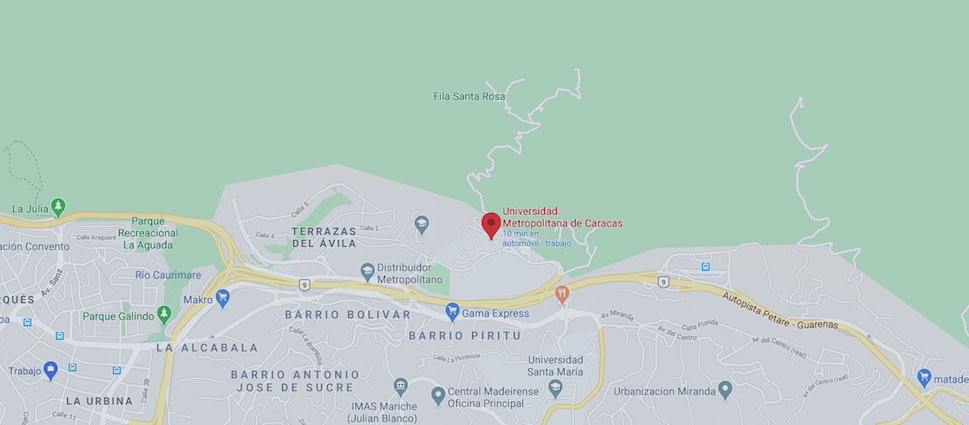
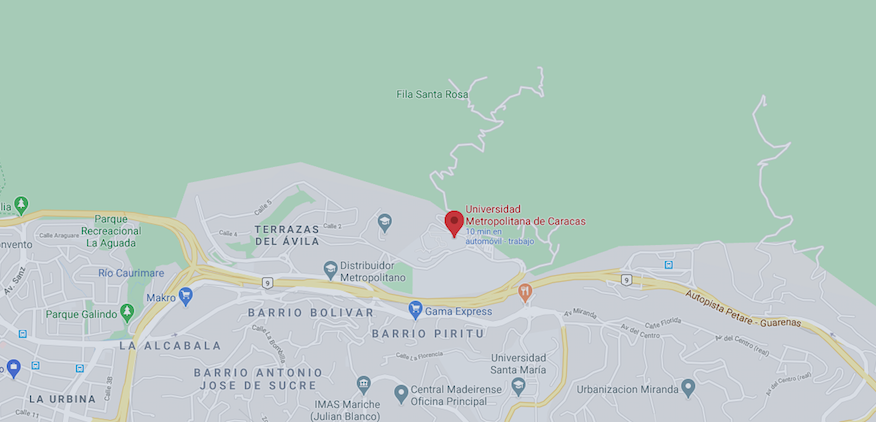
home finalizado

diff --git a/src/app/components/patient/patient.component.html b/src/app/components/patient/patient.component.html
@@ -1,5 +1,7 @@
 <div class="container-fluid">
+
   <div class="row">
+    <!-- Banner -->
     <img
       src="../../../assets/background/smile.jpeg"
       alt="banner"
@@ -9,7 +11,8 @@
     />
   </div>
 
-  <div class="row intro">
+  <div class="row">
+    <!-- Name -->
     <div class="w-100 jumbotron">
       <div class="container">
         <h1 class="font-weight-light">Smiling Bird</h1>
@@ -20,24 +23,35 @@
     </div>
   </div>
 
-  <div class="row d-flex align-items-end justify-content-center mb-sm-5">
-    <h5 class="w-100 text-center m-sm-5">¡Bienvenidos a nuestro espacio en la red!</h5>
+  <div class="row d-flex align-items-end justify-content-center mb-5">
+    <!-- Intro -->
+    <h5 class="w-100 text-center m-5">
+      ¡Bienvenidos a nuestro espacio en la red!
+    </h5>
     <p class="w-75">
       En Smiling Bird ponemos a su disposición la experiencia del mejor equipo
       de odontólogos y las instalaciones más modernas y cómodas, además de la
       última tecnología a nivel mundial.
     </p>
-    <p class="w-75 mb-sm-5">
+    <p class="w-75 mb-5">
       Somos un grupo humano verdaderamente comprometido con lo que hace, capaz
       de brindar un servicio de salud integral, personalizado y de alto valor
       científico, enfocado en la ética, responsabilidad y sentido social de
       nuestra labor.
     </p>
-    <h6 class="w-100 font-italic font-weight-light text-muted text-center">CARACAS-VENEZUELA</h6>
+    <p class="w-75 font-italic mb-5">
+      Así que ven a Smiling Bird y vuela alto con nosotros.
+    </p>
+    <h6 class="w-100 font-italic font-weight-light text-muted text-center">
+      CARACAS-VENEZUELA
+    </h6>
   </div>
 
   <div class="row">
+    <!-- Testimonials -->
     <ngb-carousel class="w-100">
+
+      <!-- First testimonial -->
       <ng-template ngbSlide>
         <div class="picsum-img-wrapper">
           <div class="w-100 testimonial"></div>
@@ -52,9 +66,13 @@
           </p>
           <hr />
           <h6 class="font-weight-light">Sara López</h6>
-          <h6 class="font-weigt-lighter my-3 text-white-50 font-italic">Abogada</h6>
+          <h6 class="font-weigt-lighter my-3 text-white-50 font-italic">
+            Abogada
+          </h6>
         </div>
       </ng-template>
+
+      <!-- Second testimonial -->
       <ng-template ngbSlide>
         <div class="picsum-img-wrapper">
           <div class="w-100 testimonial"></div>
@@ -68,9 +86,13 @@
           </p>
           <hr />
           <h6 class="font-weight-light">Jessica Wong</h6>
-          <h6 class="font-weigt-lighter my-3 text-white-50 font-italic">Estudiante</h6>
+          <h6 class="font-weigt-lighter my-3 text-white-50 font-italic">
+            Estudiante
+          </h6>
         </div>
       </ng-template>
+
+      <!-- Third testimonial -->
       <ng-template ngbSlide>
         <div class="picsum-img-wrapper">
           <div class="w-100 testimonial"></div>
@@ -90,24 +112,176 @@
           </h6>
         </div>
       </ng-template>
+
     </ngb-carousel>
   </div>
 
-  <div class="address row">
-    <div class="container place shadow-lg">
-      <p>
-        <strong>Distribuidor Universidad</strong> <br />
-        Av. Boyacá con autopista Petare-Guarenas. <br />
-        Urbanización Terrazas del Ávila, Caracas-Miranda. <br />
-        Zona postal 1073
-      </p>
-    </div>
+  <div class="row">
+    <!-- Services -->
+
+    <h2 class="font-weight-light w-100 text-center m-5">
+      Nuestros servicios
+    </h2>
+    <p class="font-weight-bold w-100 text-center">
+      ¡Todas las Especialidades en el mismo lugar!
+    <p>
+
+    <!-- Treatments container -->
+    <div class="container-fluid">
+
+      <!-- First row -->
+      <div class="row">
+
+        <!-- Treatment -->
+        <div class="col-sm treatment m-5 text-center">
+          <img
+            class="thumbnail"
+            alt="thumbnail"
+            src="../../../assets/treatments/blanqueamiento.jpg"
+          />
+          <div class="cover">
+            <h4 class="font-weight-light m-5">ESTÉTICA DENTAL</h4>
+            <hr />
+            <p>
+              Análisis y estudio de las características dentogingivales para
+              corregir defectos cosméticos y embellecer el aspecto general de la
+              dentadura
+            </p>
+            <hr />
+          </div>
+        </div>
+
+        <!-- Treatment -->
+        <div class="col-sm treatment m-5 text-center">
+          <img
+            class="thumbnail"
+            alt="thumbnail"
+            src="../../../assets/treatments/cirugia_bucal.jpg"
+          />
+          <div class="cover">
+            <h4 class="font-weight-light m-5">CIRUGÍA BUCAL</h4>
+            <hr />
+            <p>
+              Prevención, diagnóstico y tratamiento de toda la patología
+              quirúrgica propia o asociada a dientes, mucosas, labios, encías y
+              huesos maxilares.
+            </p>
+            <hr />
+          </div>
+        </div>
+
+      </div> <!-- End first row -->
+
+      <!-- Second row -->
+      <div class="row">
+
+        <!-- Treatment -->
+        <div class="col-sm treatment m-5 text-center">
+          <img
+            class="thumbnail"
+            alt="thumbnail"
+            src="../../../assets/treatments/implante.jpg"
+          />
+          <div class="cover">
+            <h4 class="font-weight-light m-5">IMPLANTES</h4>
+            <hr />
+            <p>
+              Reposición de los dientes perdidos con dispositivos biocompatibles
+              de titanio que viabilizan la rehabilitación oral fija de los
+              pacientes parcial o totalmente edéntulos.
+            </p>
+            <hr />
+          </div>
+        </div>
+
+        <!-- Treatment -->
+        <div class="col-sm treatment m-5 text-center">
+          <img
+            class="thumbnail"
+            alt="thumbnail"
+            src="../../../assets/treatments/tratamiento_conducto.jpg"
+          />
+          <div class="cover">
+            <h4 class="font-weight-light m-5">ENDODONCIA</h4>
+            <hr />
+            <p>
+              Limpieza, desinfección y conformación de los conductos radiculares
+              como paso previo a los múltiples procedimmientos de próteses y
+              restauración dental.
+            </p>
+            <hr />
+          </div>
+        </div>
+
+      </div> <!-- End second row -->
+
+      <!-- Third row -->
+      <div class="row">
+
+        <!-- Treatment -->
+        <div class="col-sm treatment m-5 text-center">
+          <img
+            class="thumbnail"
+            alt="thumbnail"
+            src="../../../assets/treatments/ortodoncia.jpg"
+          />
+          <div class="cover">
+            <h4 class="font-weight-light m-5">ORTODONCIA</h4>
+            <hr />
+            <p>
+              Brackets y aparatoría funcional para la correción biomecánica de
+              maloclusiones, malposiciones dentales y deformidades
+              dentofaciales.
+            </p>
+            <hr />
+          </div>
+        </div>
+
+        <!-- Treatment -->
+        <div class="col-sm treatment m-5 text-center">
+          <img
+            class="thumbnail"
+            alt="thumbnail"
+            src="../../../assets/treatments/protesis_dental.jpg"
+          />
+          <div class="cover">
+            <h4 class="font-weight-light m-5">PRÓTESIS ORAL</h4>
+            <hr />
+            <p>
+              Diseño y confección de coronas cerámicas y estructuras protésicas
+              que restituyen la integridad de las arcadas dentales, estética y
+              función masticatoria.
+            </p>
+            <hr />
+          </div>
+        </div>
+
+      </div> <!-- End third row -->
+
+    </div> <!-- End container -->
+
+  </div> <!-- End row -->
+
+
+  <div class="address row mt-5">
+    <!-- Address -->
     <img
       src="../../../assets/background/mapa.png"
       alt="mapa"
       width="100%"
-      height="15%"
-      class="img-fluid"
+      class="map img-responsive"
     />
+    <!-- Map photo -->
+    <div class="direction text-center d-flex justify-content-center align-items-center">
+      <!-- Direction -->
+      <p class="font-weight-light">
+        Distribuidor Universidad <br />
+        Av. Boyacá con autopista Petare-Guarenas. <br />
+        Urbanización Terrazas del Ávila, Caracas-Miranda. <br />
+        Zona postal 1073. <br>
+        (0212) 234-2313 / 234-9283
+      </p>
+    </div>
   </div>
+
 </div>

diff --git a/src/app/components/patient/patient.component.css b/src/app/components/patient/patient.component.css
@@ -1,17 +1,25 @@
-.address img {
+.address {
   position: relative;
+  display: block;
 }
 
-.place {
-  background-color: rgba(255, 243, 225, 0.527);
-  border-radius: 10px;
-  width: 50%;
+.direction {
+  position: absolute;
+  top: 0;
+  right: 0;
+  bottom: 0;
+  left: 0;
+  width: 100%;
   height: 100%;
-  text-align: center;
+  color: rgba(255, 255, 255, 0);
+  transition: all 1s linear;
 }
 
-.place p {
-  margin-top: 7%;
+.address:hover .direction {
+  background-color: rgba(0, 0, 0, .8);
+  color: rgba(255, 255, 255, 1);
+  transition: all .2s linear;
+  font-size: 0.9rem;
 }
 
 .jumbotron {
@@ -28,5 +36,11 @@
 
 .carousel-caption {
   font-size: 15px;
+}
+
+.thumbnail {
+  border-radius: 100%;
+  border: 2px solid #a88900;
+  box-shadow: 0 8px 6px -1px #000;
 }
 

diff --git a/src/app/components/header/header.component.css b/src/app/components/header/header.component.css
@@ -1,6 +1,5 @@
 body,
 button {
-  font-weight: 400;
   text-align: center;
 }
 
@@ -13,7 +12,6 @@ button {
 
 .btnList {
   background: transparent;
-  font-size: 1.2rem;
 }
 
 button,
@@ -52,7 +50,7 @@ header {
   background: #005772;
   width: 100%;
   position: absolute;
-  z-index: 10;
+  z-index: 999;
   box-shadow: 0 8px 6px -6px #000;
   text-align: center;
   /* text-shadow: -0.5px 0 #fff8e4, 0 0.5px #84c7cb, 0.5px 0 #84c7cb, 0 -0.5px #84c7cb; */
@@ -65,6 +63,7 @@ header {
   display: block;
   position: fixed;
   display: flex;
+  z-index: 100;
   box-shadow: 0 6px 4px -4px #333333;
 }
 

diff --git a/src/app/components/header/header.component.ts b/src/app/components/header/header.component.ts
@@ -23,8 +23,8 @@ export class HeaderComponent implements OnInit {
   ngOnInit() {
   }
 
-  @HostListener('window:scroll', ['$event']) onScrollEvent($event){
-    console.log('Holis');
-  }
+  // @HostListener('window:scroll', ['$event']) onScrollEvent($event){
+  //   console.log('Holis');
+  // }
 
 }

diff --git a/src/app/app.component.css b/src/app/app.component.css
@@ -4,5 +4,5 @@
 }
 
 .content {
-  padding-top: 9%;
+  padding-top: 6%;
 }
